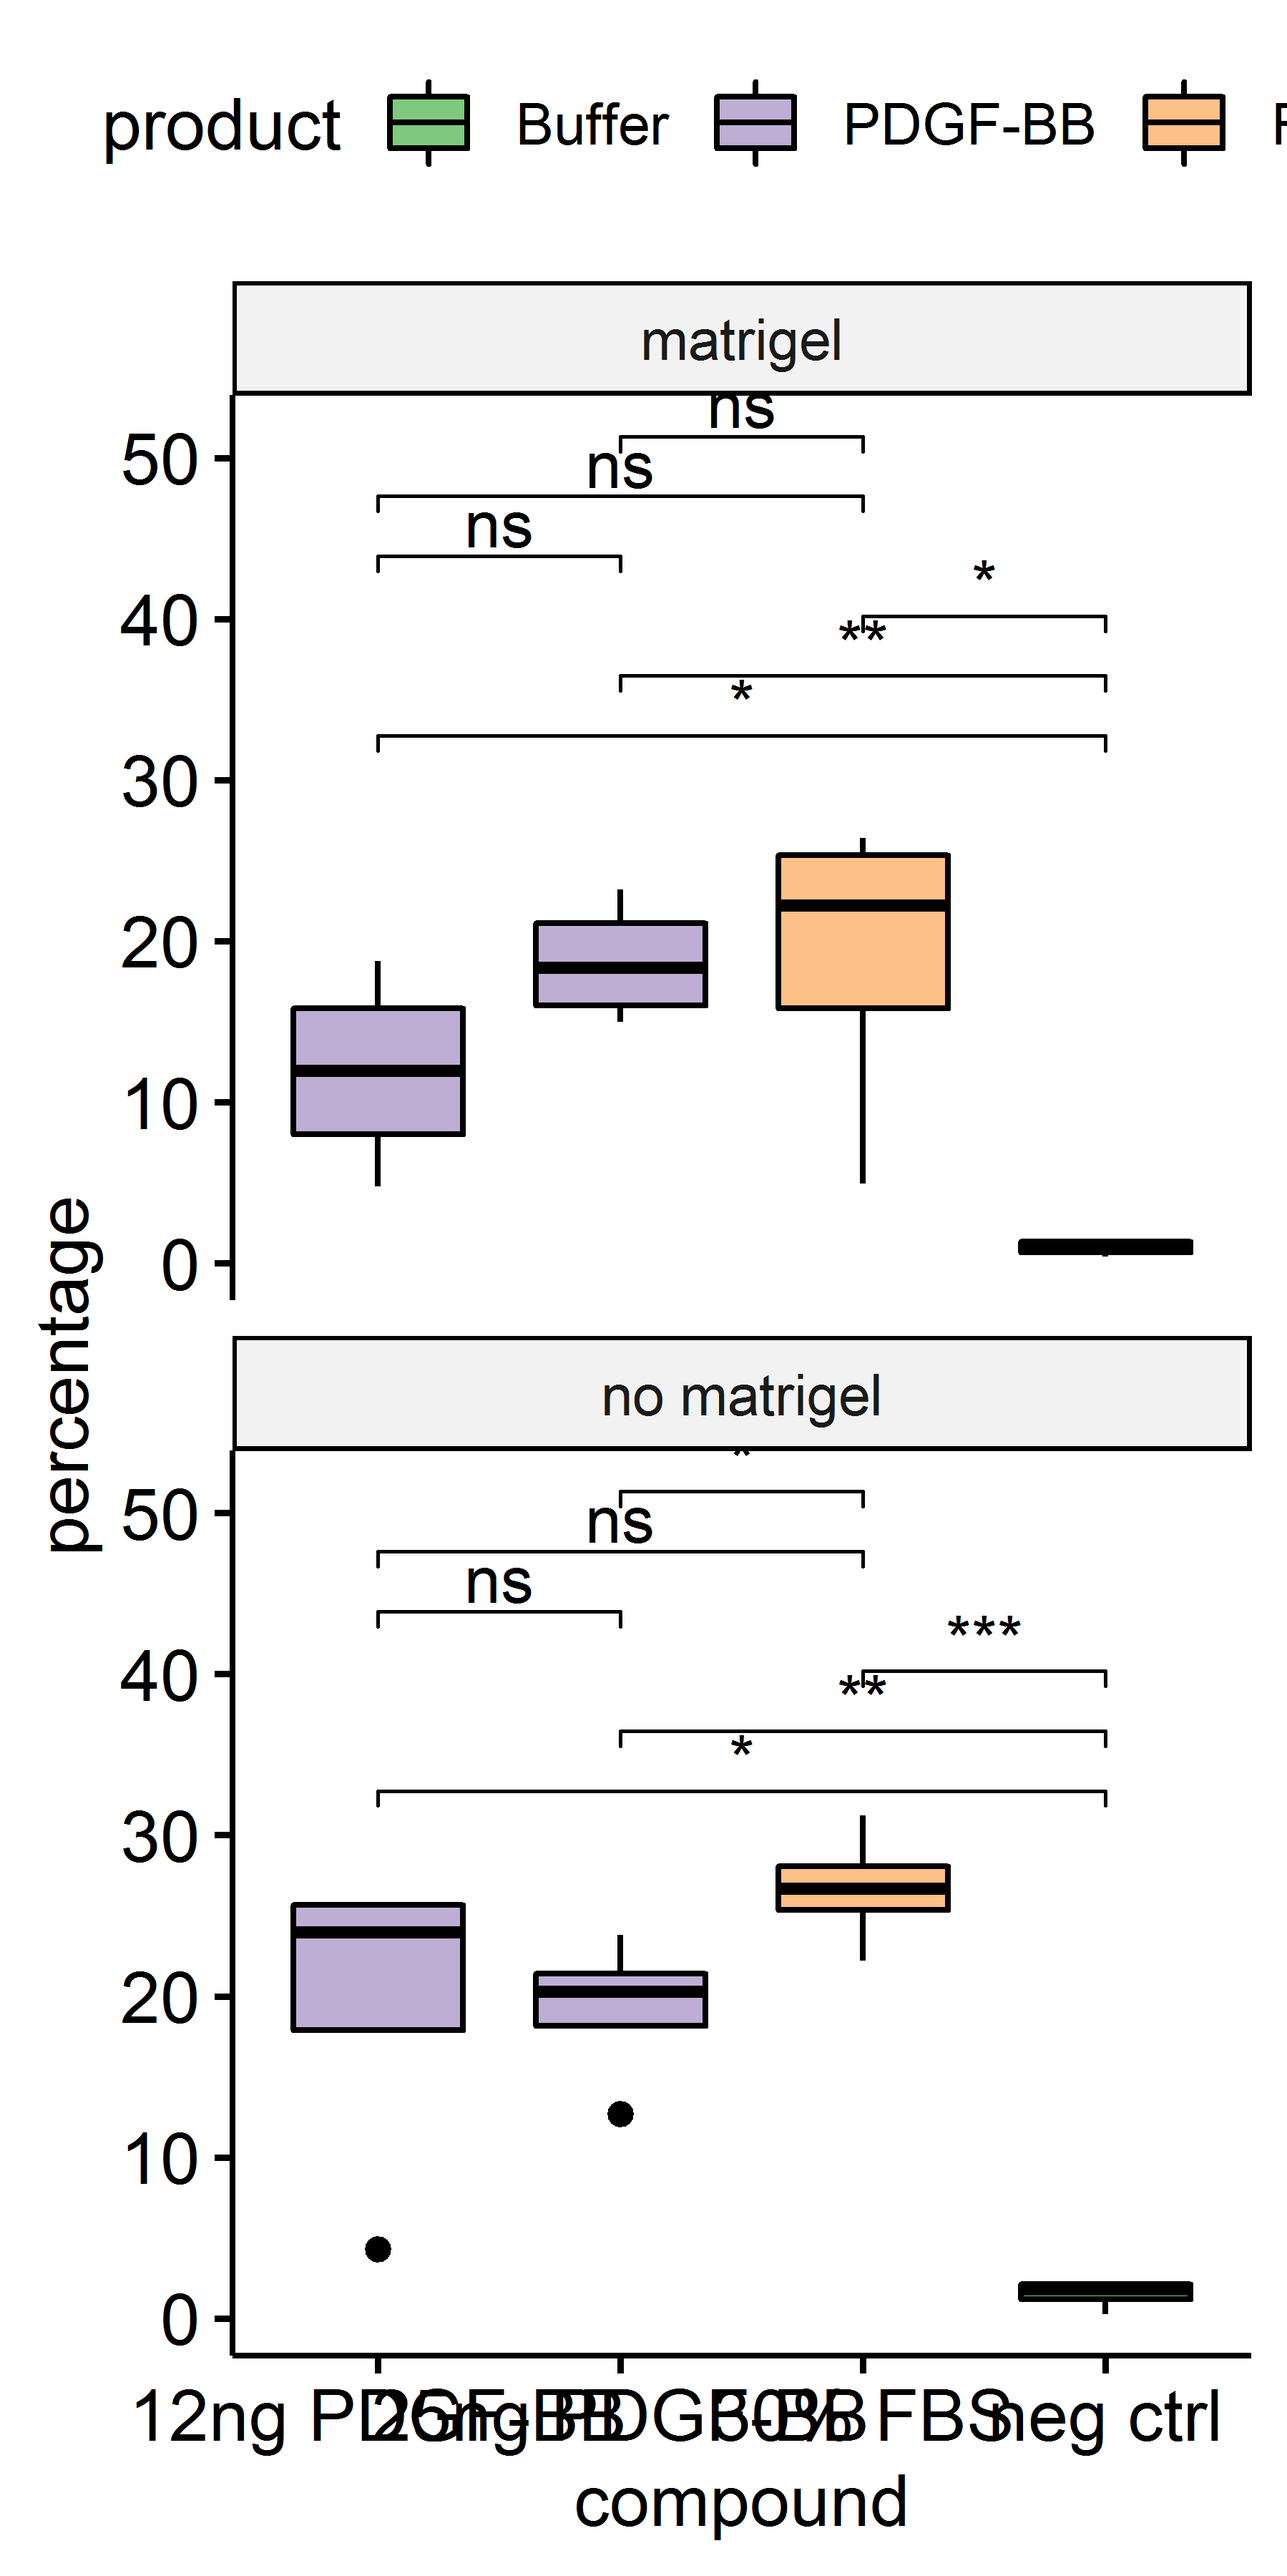
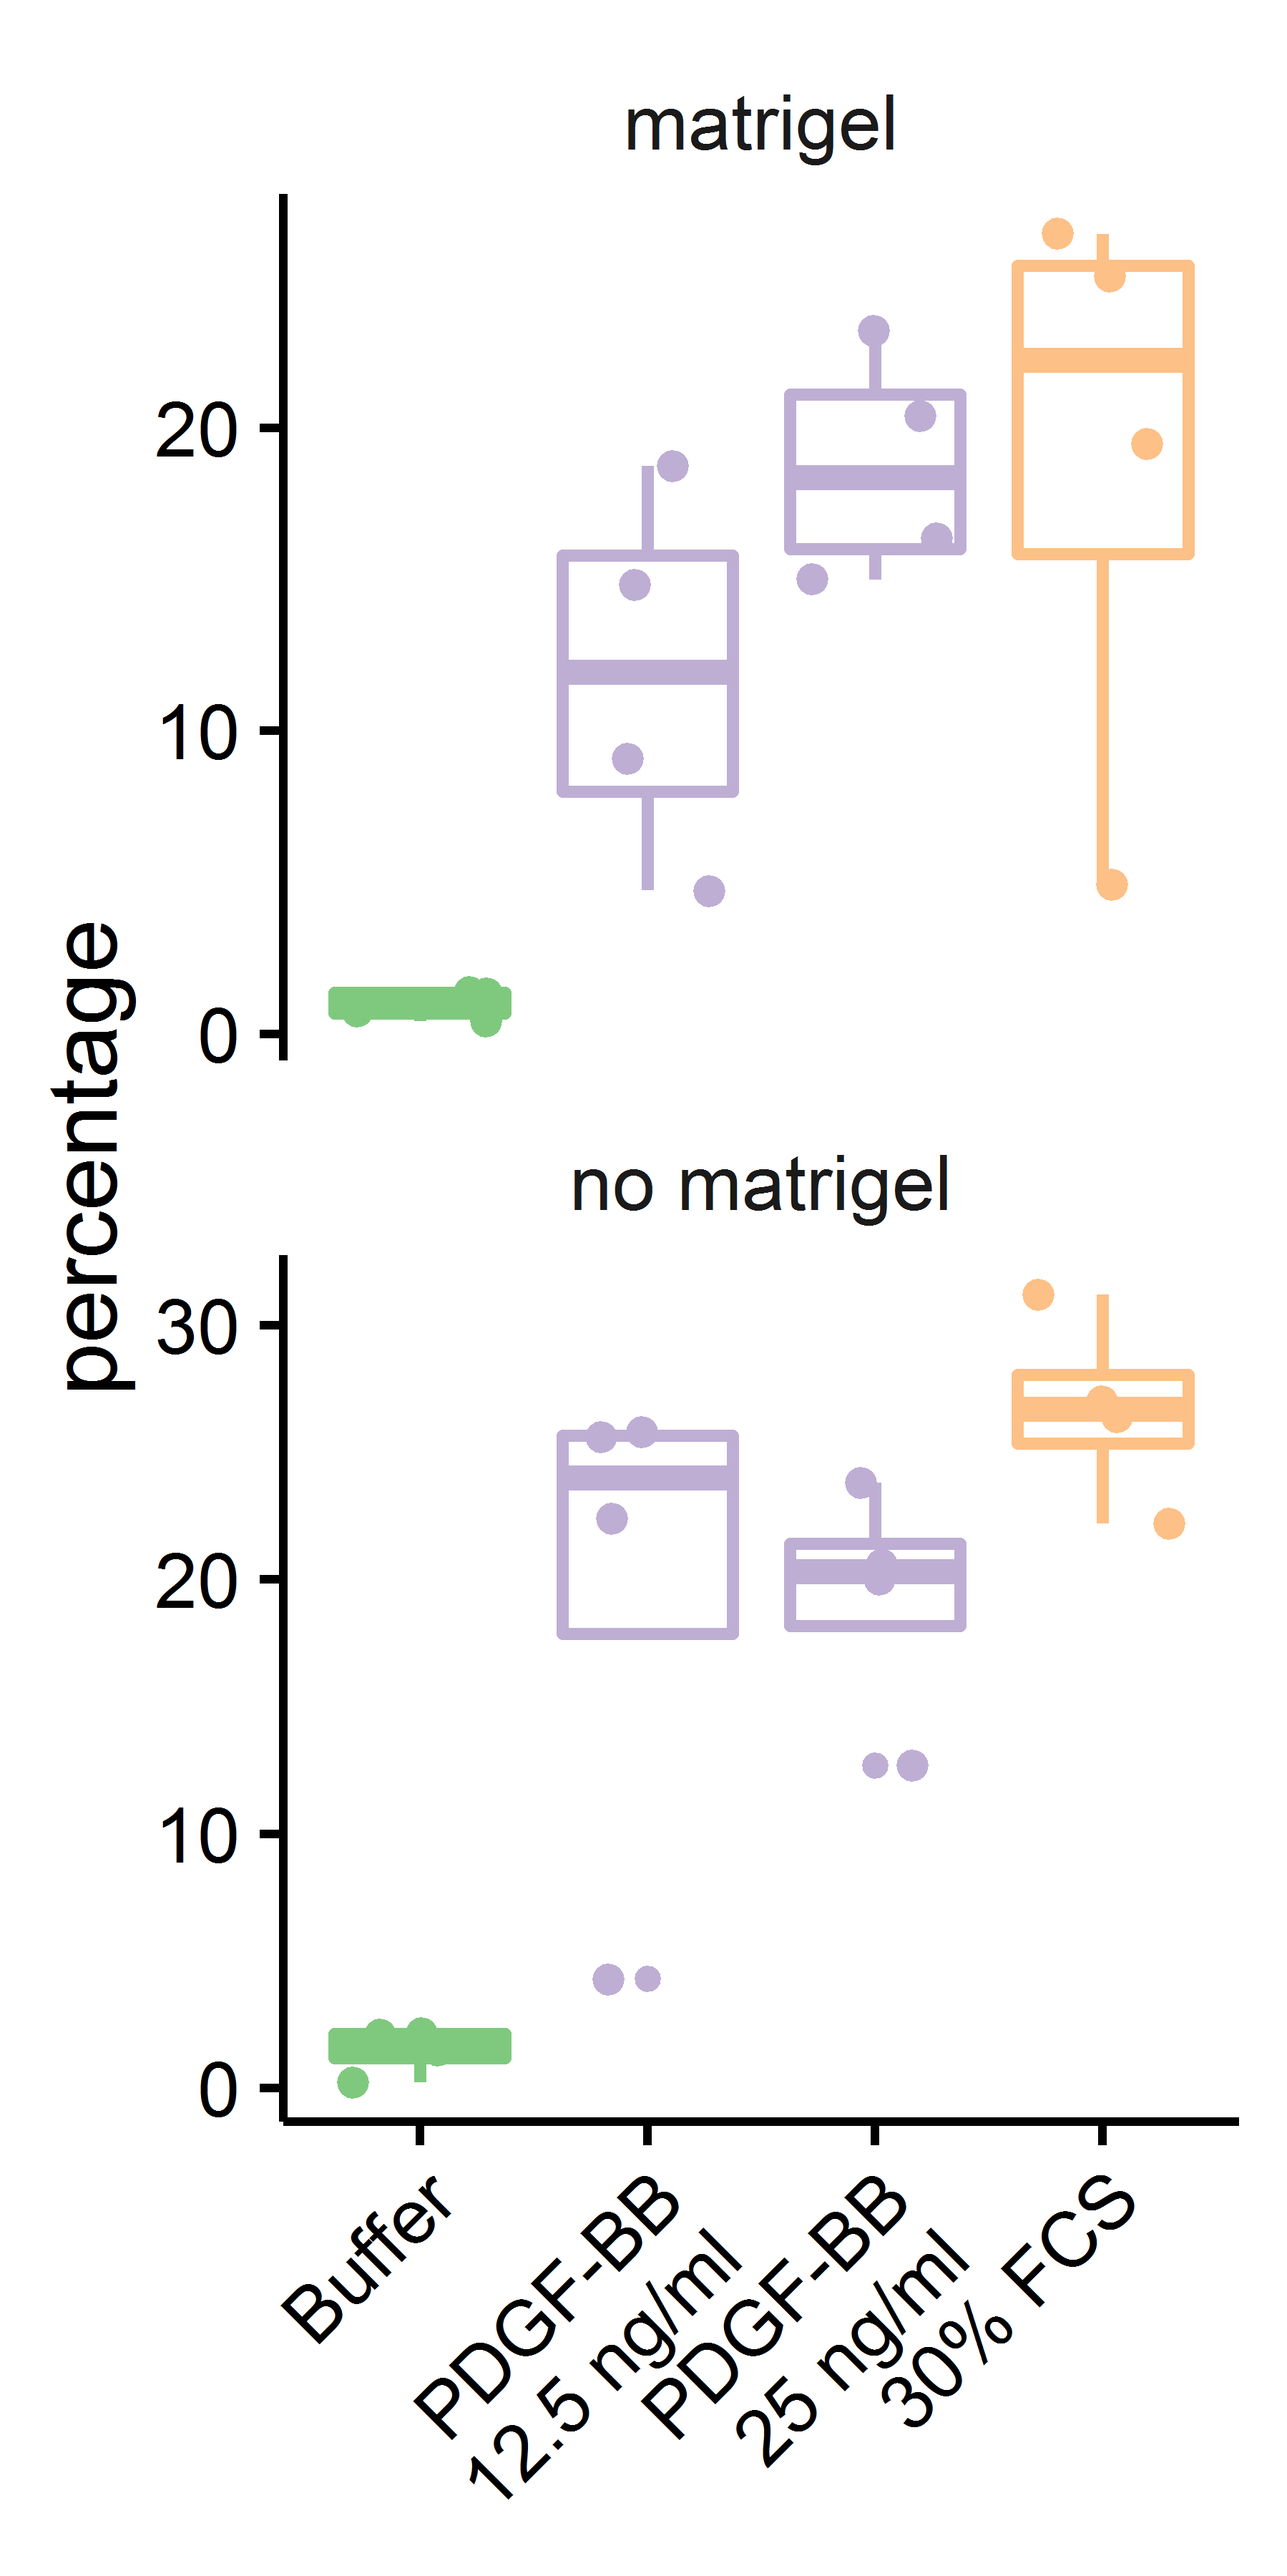
Edit plot matrigel migration

diff --git a/4_transwell_migration_matrigel.html b/4_transwell_migration_matrigel.html
@@ -201,7 +201,7 @@ library(ggpubr)</code></pre>
 </div>
 <div id="load-data" class="section level2">
 <h2>Load data</h2>
-<pre class="r"><code>df &lt;- read_excel(&quot;data/Transwell_migration_pdgf_matrigel.xlsx&quot;, col_names = TRUE)</code></pre>
+<pre class="r"><code>df &lt;- read_excel(&quot;data/fig5-6_migration/Transwell_migration_pdgf_matrigel.xlsx&quot;, col_names = TRUE)</code></pre>
 <pre><code>## readxl works best with a newer version of the tibble package.
 ## You currently have tibble v1.4.2.
 ## Falling back to column name repair from tibble &lt;= v1.4.2.
@@ -226,59 +226,61 @@ library(ggpubr)</code></pre>
 <div id="create-factors" class="section level2">
 <h2>Create factors</h2>
 <p>compound</p>
-<pre class="r"><code>df$compound2 &lt;- plyr::revalue(df$compound, c(`neg ctrl` = &quot;Negative\ncontrol&quot;, `12ng PDGF-BB` = &quot;Pdgfb\n12ng&quot;, `25ng PDGF-BB` = &quot;Pdgfb\n25ng&quot;, `30% FBS` = &quot;Positive\ncontrol&quot;))
-df$compound2 &lt;- factor(df$compound2, levels = c(&quot;Negative\ncontrol&quot;, &quot;Pdgfb\n12ng&quot;, &quot;Pdgfb\n25ng&quot;, &quot;Positive\ncontrol&quot;))
-df$product &lt;- factor(df$product, levels = c(&quot;Buffer&quot;, &quot;PDGF-BB&quot;, &quot;FBS&quot;))</code></pre>
+<pre class="r"><code>df$compound &lt;- plyr::revalue(df$compound, c(`neg ctrl` = &quot;Buffer&quot;, `12ng PDGF-BB` = &quot;PDGF-BB\n12.5 ng/ml&quot;, `25ng PDGF-BB` = &quot;PDGF-BB\n25 ng/ml&quot;, `30% FBS` = &quot;30% FCS&quot;))
+df$compound &lt;- factor(df$compound, levels = c(&quot;Buffer&quot;, &quot;PDGF-BB\n12.5 ng/ml&quot;, &quot;PDGF-BB\n25 ng/ml&quot;, &quot;30% FCS&quot;))
+df$product &lt;- plyr::revalue(df$product, c(Buffer = &quot;Buffer&quot;, `PDGF-BB` = &quot;PDGF-BB&quot;, FBS = &quot;30% FCS&quot;))
+df$product &lt;- factor(df$product, levels = c(&quot;Buffer&quot;, &quot;PDGF-BB&quot;, &quot;30% FCS&quot;))
+head(df)</code></pre>
+<pre><code>## # A tibble: 6 x 8
+##   compound product layer bead_count cell_count `migrated_cells~
+##   &lt;fct&gt;    &lt;fct&gt;   &lt;chr&gt;      &lt;dbl&gt;      &lt;dbl&gt;            &lt;dbl&gt;
+## 1 &quot;PDGF-B~ PDGF-BB no m~       4998       2153             21.5
+## 2 &quot;PDGF-B~ PDGF-BB no m~       5003      12883            129  
+## 3 &quot;PDGF-B~ PDGF-BB no m~       4998      12837            128  
+## 4 &quot;PDGF-B~ PDGF-BB no m~       5001      11179            112  
+## 5 &quot;PDGF-B~ PDGF-BB no m~       5003      10054            100  
+## 6 &quot;PDGF-B~ PDGF-BB no m~       4997      10259            103  
+## # ... with 2 more variables: total_migrated_cells &lt;dbl&gt;, percentage &lt;dbl&gt;</code></pre>
 </div>
 <div id="statistics" class="section level2">
 <h2>Statistics</h2>
 <pre class="r"><code>compare_means(percentage ~ compound, data = df, group.by = &quot;layer&quot;, method = &quot;t.test&quot;)</code></pre>
 <pre><code>## # A tibble: 12 x 9
-##    layer   .y.     group1   group2        p  p.adj p.format p.signif method
-##    &lt;chr&gt;   &lt;chr&gt;   &lt;chr&gt;    &lt;chr&gt;     &lt;dbl&gt;  &lt;dbl&gt; &lt;chr&gt;    &lt;chr&gt;    &lt;chr&gt; 
-##  1 no mat~ percen~ 12ng PD~ 25ng P~ 9.66e-1 1      0.96604  ns       T-test
-##  2 no mat~ percen~ 12ng PD~ 30% FBS 2.63e-1 1      0.26286  ns       T-test
-##  3 no mat~ percen~ 12ng PD~ neg ct~ 3.87e-2 0.31   0.03865  *        T-test
-##  4 no mat~ percen~ 25ng PD~ 30% FBS 4.95e-2 0.31   0.04949  *        T-test
-##  5 no mat~ percen~ 25ng PD~ neg ct~ 3.95e-3 0.04   0.00395  **       T-test
-##  6 no mat~ percen~ 30% FBS  neg ct~ 5.10e-4 0.0061 0.00051  ***      T-test
-##  7 matrig~ percen~ 12ng PD~ 25ng P~ 1.16e-1 0.580  0.11561  ns       T-test
-##  8 matrig~ percen~ 12ng PD~ 30% FBS 2.74e-1 1      0.27428  ns       T-test
-##  9 matrig~ percen~ 12ng PD~ neg ct~ 3.86e-2 0.31   0.03857  *        T-test
-## 10 matrig~ percen~ 25ng PD~ 30% FBS 9.69e-1 1      0.96938  ns       T-test
-## 11 matrig~ percen~ 25ng PD~ neg ct~ 2.27e-3 0.025  0.00227  **       T-test
-## 12 matrig~ percen~ 30% FBS  neg ct~ 3.50e-2 0.31   0.03498  *        T-test</code></pre>
+##    layer  .y.    group1    group2         p  p.adj p.format p.signif method
+##    &lt;chr&gt;  &lt;chr&gt;  &lt;chr&gt;     &lt;chr&gt;      &lt;dbl&gt;  &lt;dbl&gt; &lt;chr&gt;    &lt;chr&gt;    &lt;chr&gt; 
+##  1 no ma~ perce~ Buffer    &quot;PDGF-B~ 3.87e-2 0.31   0.03865  *        T-test
+##  2 no ma~ perce~ Buffer    &quot;PDGF-B~ 3.95e-3 0.04   0.00395  **       T-test
+##  3 no ma~ perce~ Buffer    30% FCS  5.10e-4 0.0061 0.00051  ***      T-test
+##  4 no ma~ perce~ &quot;PDGF-BB~ &quot;PDGF-B~ 9.66e-1 1      0.96604  ns       T-test
+##  5 no ma~ perce~ &quot;PDGF-BB~ 30% FCS  2.63e-1 1      0.26286  ns       T-test
+##  6 no ma~ perce~ &quot;PDGF-BB~ 30% FCS  4.95e-2 0.31   0.04949  *        T-test
+##  7 matri~ perce~ Buffer    &quot;PDGF-B~ 3.86e-2 0.31   0.03857  *        T-test
+##  8 matri~ perce~ Buffer    &quot;PDGF-B~ 2.27e-3 0.025  0.00227  **       T-test
+##  9 matri~ perce~ Buffer    30% FCS  3.50e-2 0.31   0.03498  *        T-test
+## 10 matri~ perce~ &quot;PDGF-BB~ &quot;PDGF-B~ 1.16e-1 0.580  0.11561  ns       T-test
+## 11 matri~ perce~ &quot;PDGF-BB~ 30% FCS  2.74e-1 1      0.27428  ns       T-test
+## 12 matri~ perce~ &quot;PDGF-BB~ 30% FCS  9.69e-1 1      0.96938  ns       T-test</code></pre>
 </div>
 <div id="plot" class="section level2">
 <h2>Plot</h2>
-<pre class="r"><code>df %&gt;%
-  ggplot(aes(x = compound2, y = percentage, fill = product, col = product)) +
-  geom_dotplot(binaxis = &quot;y&quot;, stackdir = &quot;center&quot;, dotsize = 3) +
-  stat_summary(fun.y = mean, fun.ymin = mean, fun.ymax = mean, geom = &quot;crossbar&quot;, col = &quot;black&quot;) +
-  scale_y_continuous(&quot;Percentage migrated cells&quot;) +
-  scale_color_brewer(type = &quot;qual&quot;, palette = &quot;Accent&quot;) +
-  scale_fill_brewer(type = &quot;qual&quot;, palette = &quot;Accent&quot;) +
-  facet_wrap(~layer, ncol = 1) +
-  #stat_compare_means(comparisons = my_comparisons, label = &quot;p.signif&quot;, method = &quot;t.test&quot;, label.x = 1) +
-  theme_bw(base_size = 14) +
-  theme(panel.border = element_blank(), panel.grid = element_blank(), axis.line = element_line(colour = &quot;black&quot;), axis.ticks = element_line(colour = &quot;black&quot;),
-        axis.text = element_text(colour = &quot;black&quot;), axis.title.x = element_blank(), strip.background = element_blank(), 
-        strip.text = element_text(face = &quot;italic&quot;, colour = &quot;black&quot;), legend.position = &quot;bottom&quot;, legend.title = element_blank(),
-        axis.text.x = element_text(size = 9))</code></pre>
-<pre><code>## `stat_bindot()` using `bins = 30`. Pick better value with `binwidth`.</code></pre>
[1 lines of base64/hex data omitted]
-<pre class="r"><code>my_comparisons &lt;- list(c(&quot;neg ctrl&quot;, &quot;12ng PDGF-BB&quot;),
-                       c(&quot;neg ctrl&quot;, &quot;25ng PDGF-BB&quot;),
-                       c(&quot;neg ctrl&quot;, &quot;30% FBS&quot;),
-                       c(&quot;12ng PDGF-BB&quot;, &quot;25ng PDGF-BB&quot;),
-                       c(&quot;30% FBS&quot;, &quot;12ng PDGF-BB&quot;),
-                       c(&quot;30% FBS&quot;, &quot;25ng PDGF-BB&quot;))
+<pre class="r"><code>my_comparisons &lt;- list(c(&quot;Buffer&quot;, &quot;PDGF-BB\n12.5 ng/ml&quot;),
+                       c(&quot;Buffer&quot;, &quot;PDGF-BB\n25 ng/ml&quot;),
+                       c(&quot;Buffer&quot;, &quot;30% FCS&quot;),
+                       c(&quot;PDGF-BB\n12.5 ng/ml&quot;, &quot;PDGF-BB\n25 ng/ml&quot;),
+                       c(&quot;30% FCS&quot;, &quot;PDGF-BB\n12.5 ng/ml&quot;),
+                       c(&quot;30% FCS&quot;, &quot;PDGF-BB\n25 ng/ml&quot;))
 df %&gt;%
-  ggboxplot(x = &quot;compound&quot;, y = &quot;percentage&quot;, fill = &quot;product&quot;) +
-  scale_fill_brewer(type = &quot;qual&quot;, palette = &quot;Accent&quot;) +
-  facet_wrap(~layer, ncol = 1) +
-  stat_compare_means(comparisons = my_comparisons, label = &quot;p.signif&quot;, method = &quot;t.test&quot;)</code></pre>
[1 lines of base64/hex data omitted]
+  ggplot(aes(x = compound, y = percentage, col = product)) +
+  geom_boxplot(size = 1) +
+  geom_jitter(aes(col = product), width = 0.3, size = 2) +
+  scale_color_brewer(type = &quot;qual&quot;, palette = &quot;Accent&quot;) +
+  facet_wrap(~layer, ncol = 1, scales = &quot;free_y&quot;) +
+  #stat_compare_means(comparisons = my_comparisons, label = &quot;p.signif&quot;, method = &quot;t.test&quot;, hide.ns = TRUE) +
+  theme_bw(base_size = 16) +
+  theme(panel.border = element_blank(), panel.grid = element_blank(), axis.line = element_line(colour = &quot;black&quot;), axis.ticks = element_line(colour = &quot;black&quot;),
+        axis.text = element_text(colour = &quot;black&quot;)) +
+  theme(strip.background = element_blank(), legend.position = &quot;none&quot;, axis.title.x = element_blank(), axis.text.x = element_text(angle = 45, hjust = 1))</code></pre>
[1 lines of base64/hex data omitted]
 <pre class="r"><code>ggsave(&quot;plots/migration/percentage_migration_matrigel.pdf&quot;, dpi = 600)</code></pre>
 <pre><code>## Saving 3 x 6 in image</code></pre>
 <pre class="r"><code>ggsave(&quot;plots/migration/percentage_migration_matrigel.png&quot;, dpi = 600)</code></pre>
